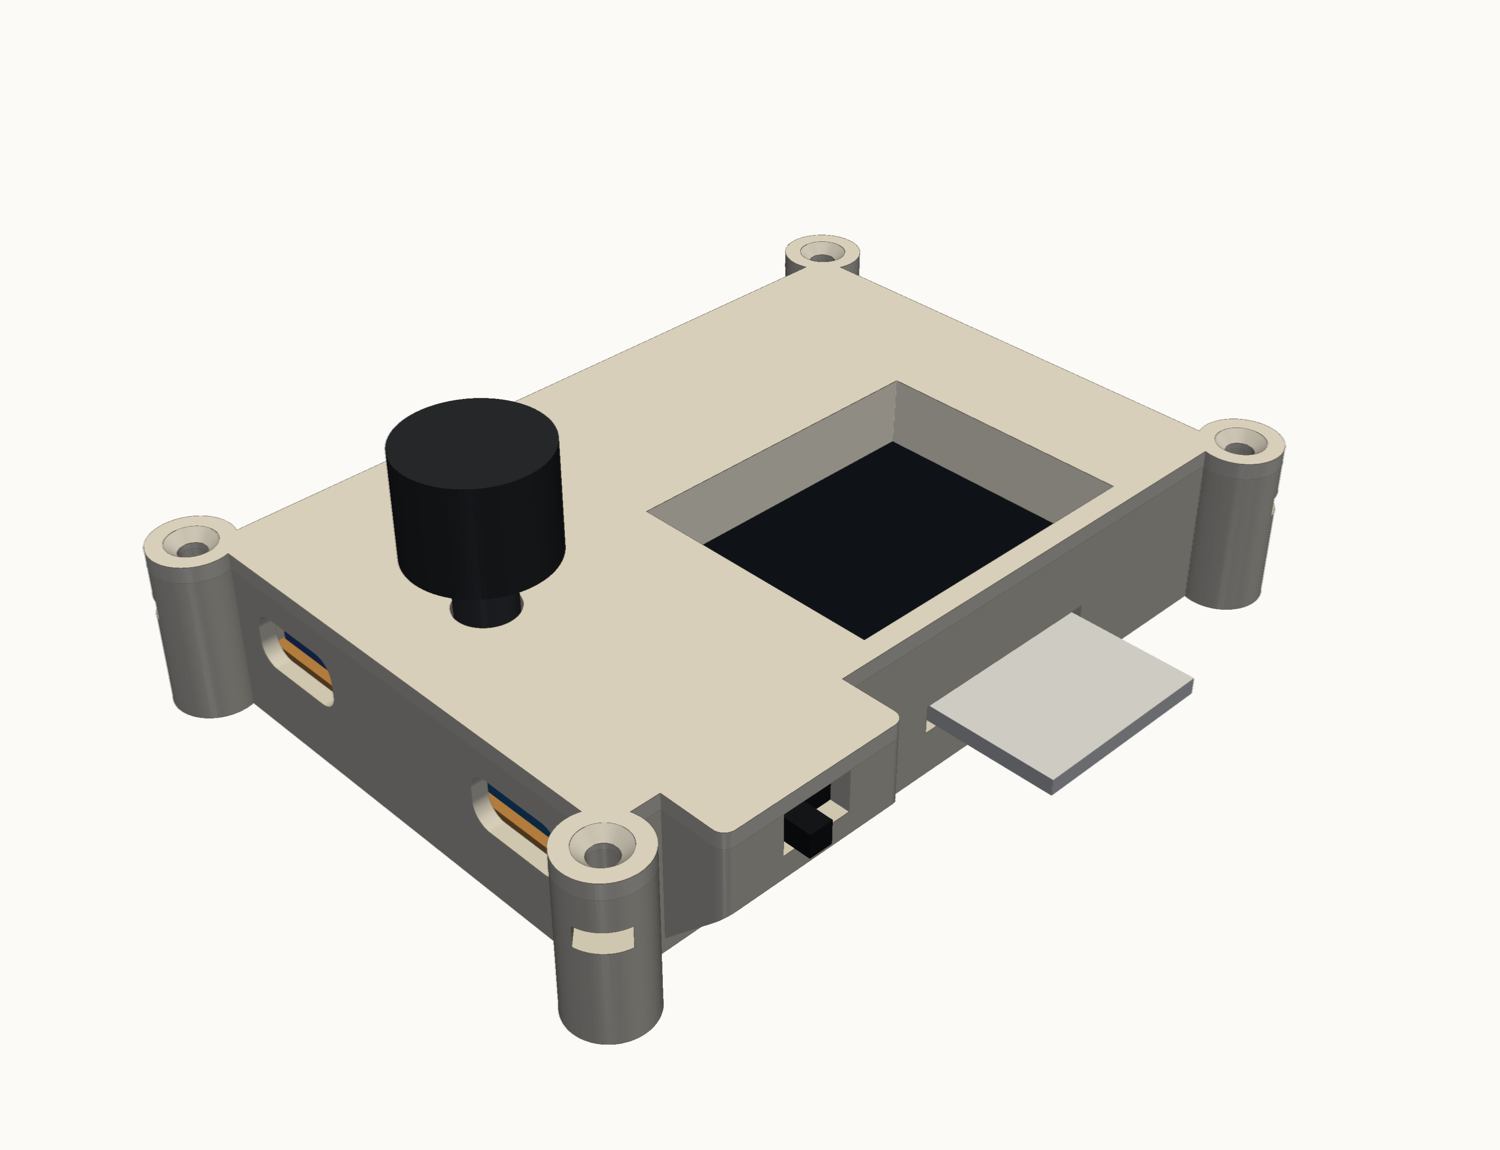
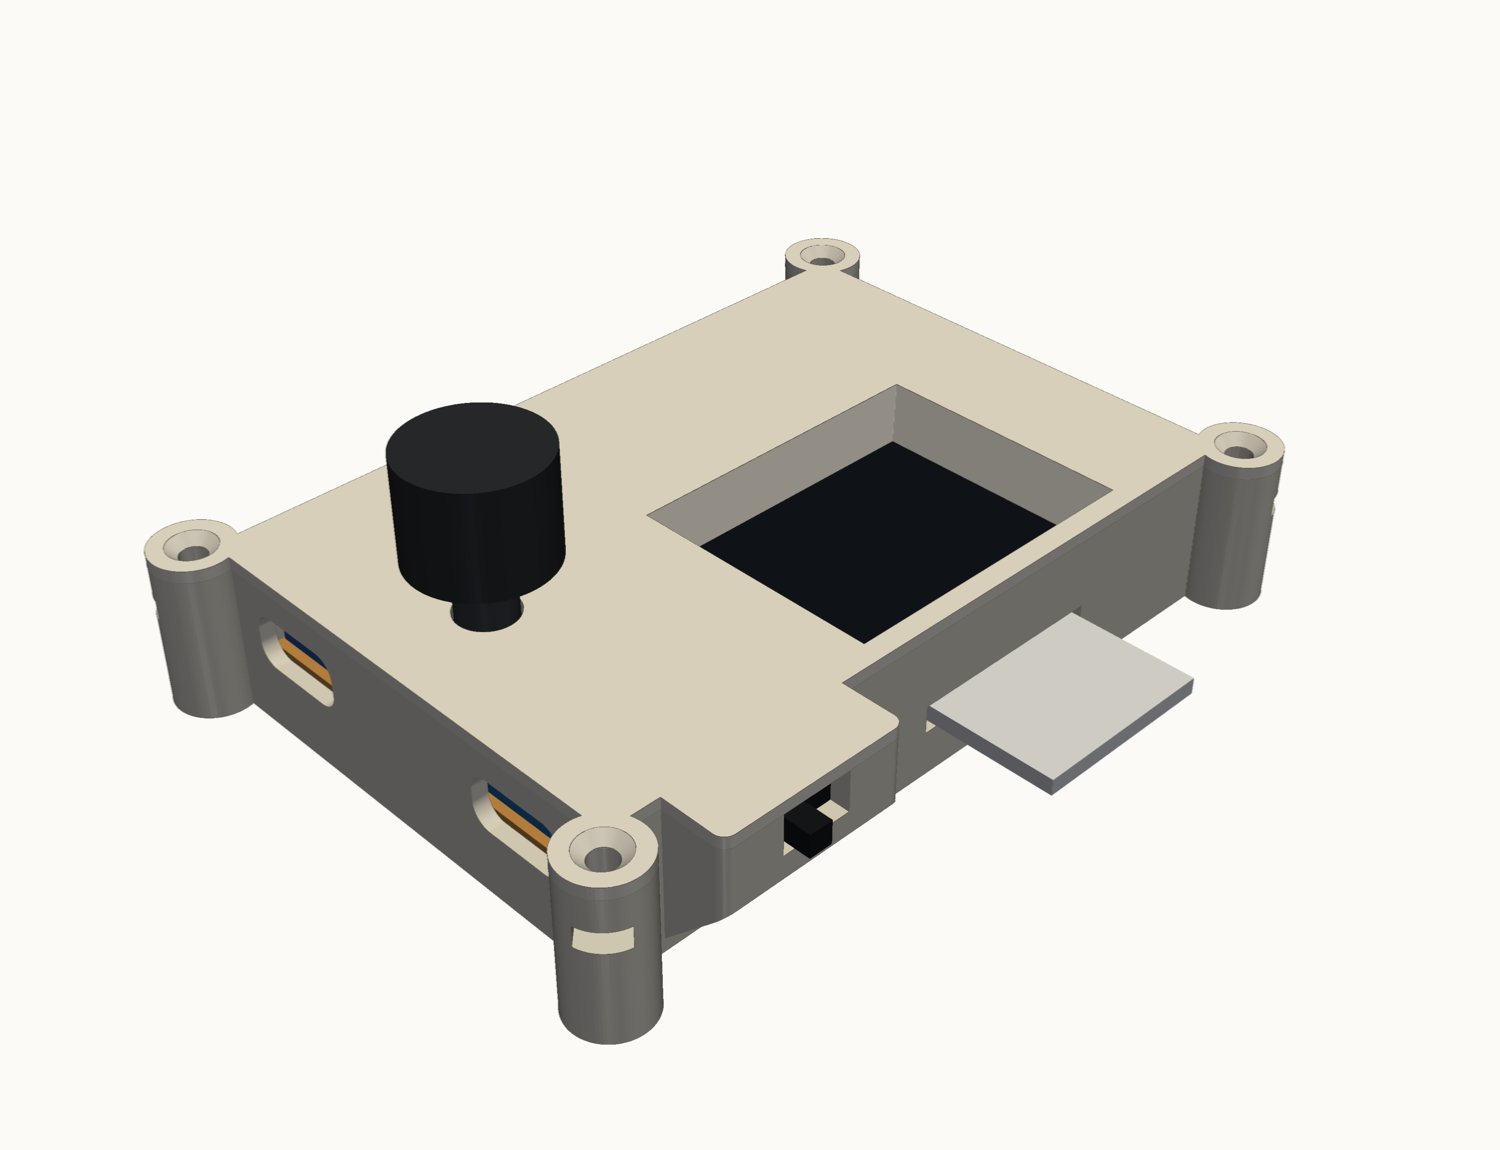
Case lid: plate 1.5 mm thick instead of 2.0, for a clear filament
Adds the script for the clear filament test plates.

diff --git a/hardware/case/transparency_coupons.py b/hardware/case/transparency_coupons.py
@@ -1,0 +1,42 @@
+"""Transparency test coupons for the clear filament, before printing the lid in it.
+
+Three 30 x 20 mm plates at 2.0 mm (the lid thickness when they were printed),
+1.5 mm and 1.0 mm, each with its thickness embossed 0.3 mm on top so they can
+be told apart after printing. Writes transparency_coupons.stl beside this file.
+
+Print flat with the settings the lid will use (layer height, walls, top and
+bottom layers, speed), then hold each over the charging board's LED and the
+ESP32's to pick the thickness that shows them best. Clear filament is clearest
+with few, fat layers and no infill gaps: try 100 % infill, a slightly higher
+nozzle temperature and slower speed if the 2 mm plate is too milky.
+"""
+
+from pathlib import Path
+
+from build123d import *
+
+PLATE_W, PLATE_D, GAP = 30.0, 20.0, 8.0
+THICKNESSES = (2.0, 1.5, 1.0)
+LABEL_H = 0.3
+
+OUT = Path(__file__).resolve().parent
+
+
+def coupons():
+    parts = None
+    for i, t in enumerate(THICKNESSES):
+        x = i * (PLATE_W + GAP)
+        plate = Pos(x + PLATE_W / 2, PLATE_D / 2, t / 2) * Box(PLATE_W, PLATE_D, t)
+        label = Pos(x + PLATE_W / 2, PLATE_D / 2, t) * extrude(
+            Text(f"{t:g}", font_size=6, align=(Align.CENTER, Align.CENTER)), LABEL_H
+        )
+        part = plate + label
+        parts = part if parts is None else parts + part
+    return parts
+
+
+if __name__ == "__main__":
+    shape = coupons()
+    export_stl(shape, str(OUT / "transparency_coupons.stl"), tolerance=0.02)
+    bb = shape.bounding_box()
+    print("coupons", [round(v, 1) for v in (bb.size.X, bb.size.Y, bb.size.Z)], "mm")

diff --git a/hardware/case/paata_case.py b/hardware/case/paata_case.py
@@ -29,7 +29,7 @@ ENC_BODY_Z = 15.4
 GAP = 0.6             # clearance around the board
 WALL = 2.0
 FLOOR = 2.0
-LID = 2.0
+LID = 1.5
 HEAD = 0.8            # clearance above the battery
 X0, X1 = -GAP, BOARD_W + GAP
 Y0, Y1 = -GAP, BOARD_L + GAP

diff --git a/.claude/CLAUDE.md b/.claude/CLAUDE.md
@@ -166,6 +166,9 @@ Board is built and wired (2026-11-15). Owner's caliper readings of the finished 
   Third base print (2026-11-16): the owner confirms it works with the USB-C openings at
   x 11.3 / 48.1, the jack hole 13.5 from the inside of the left wall, and the 6 mm pod
   pocket. Treat those positions as verified. The matching lid was printed the same day.
+  Lid plate is 1.5 mm thick (was 2.0; owner, 2026-11-16) so that a clear filament shows
+  the charger and ESP32 lights; case is 20.0 tall. `hardware/case/transparency_coupons.py`
+  makes 2.0 / 1.5 / 1.0 mm test plates for judging a clear filament.
   Support-free printing (2026-11-15): base prints floor down, lid prints outside face down
   (`lid.stl` is exported in that orientation). Pod underside is a real 45° slope (it was
   missing from the model before), slider slot is open to the top, jack hole has a 45°
